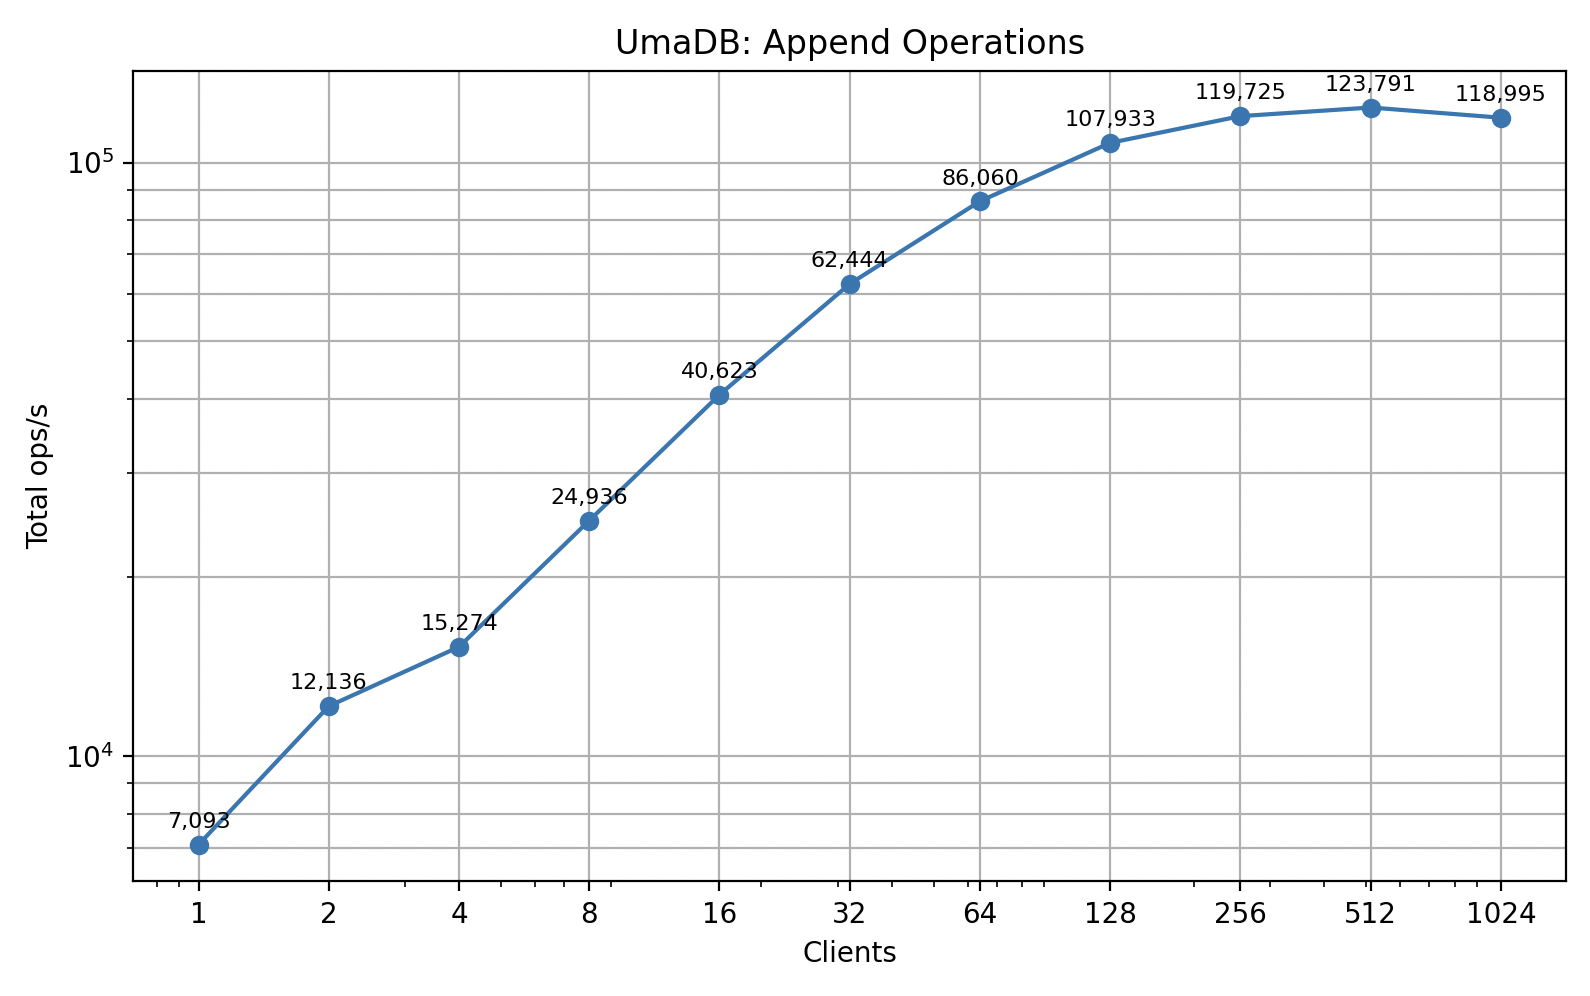
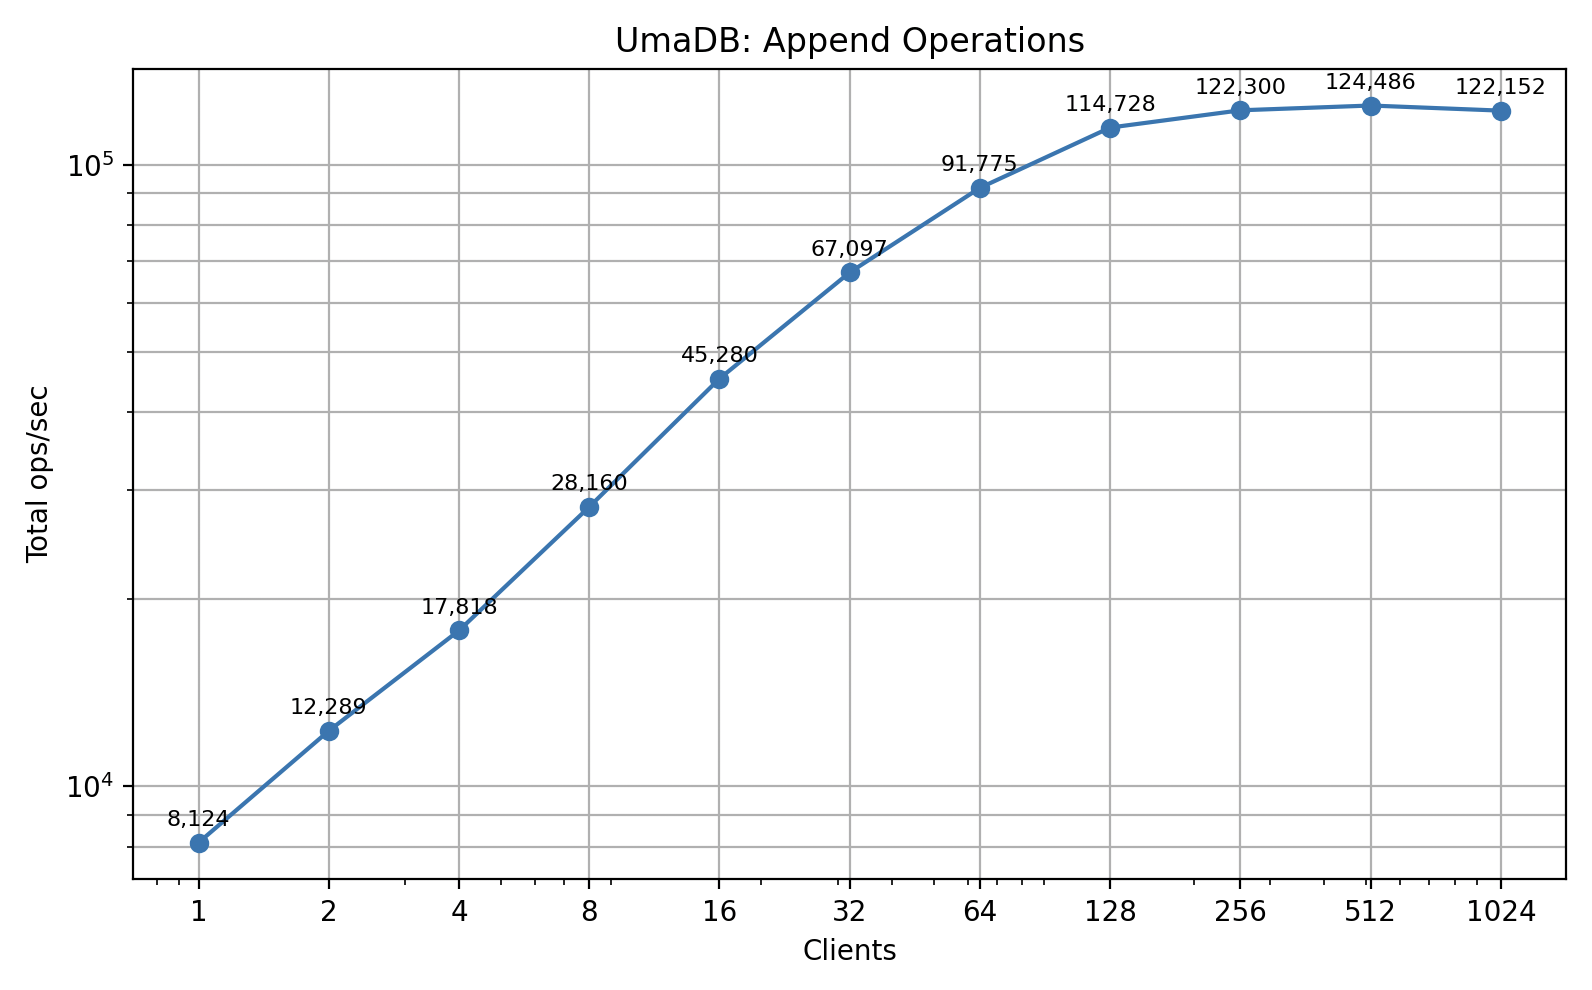
Introduce no-allocation `serialize_into` for node types, refactor related methods for clarity, reduce buffer allocations, adjust benchmarks for consistency, and increase `MAX_BATCH_EVENTS` limit.

diff --git a/src/tags_tree_nodes.rs b/src/tags_tree_nodes.rs
@@ -62,6 +62,45 @@ impl TagsLeafNode {
         Ok(out)
     }
 
+    /// No-allocation serialization into the provided buffer. Returns bytes written.
+    pub fn serialize_into(&self, dst: &mut [u8]) -> DCBResult<usize> {
+        let need = self.calc_serialized_size();
+        if dst.len() < need {
+            return Err(DCBError::SerializationError(format!(
+                "TagsLeafNode::serialize_into needs at least {} bytes, got {}",
+                need,
+                dst.len()
+            )));
+        }
+        let mut i = 0usize;
+        // keys_len
+        let klen = self.keys.len() as u16;
+        dst[i..i + 2].copy_from_slice(&klen.to_le_bytes());
+        i += 2;
+        // keys
+        for key in &self.keys {
+            dst[i..i + TAG_HASH_LEN].copy_from_slice(key);
+            i += TAG_HASH_LEN;
+        }
+        // values
+        for v in &self.values {
+            // root_id
+            dst[i..i + 8].copy_from_slice(&v.root_id.0.to_le_bytes());
+            i += 8;
+            // positions length
+            let plen = v.positions.len() as u16;
+            dst[i..i + 2].copy_from_slice(&plen.to_le_bytes());
+            i += 2;
+            // positions
+            for pos in &v.positions {
+                dst[i..i + 8].copy_from_slice(&pos.0.to_le_bytes());
+                i += 8;
+            }
+        }
+        debug_assert_eq!(i, need);
+        Ok(i)
+    }
+
     pub fn from_slice(slice: &[u8]) -> DCBResult<Self> {
         if slice.len() < 2 {
             return Err(DCBError::DeserializationError(format!(
@@ -187,6 +226,35 @@ impl TagsInternalNode {
         Ok(out)
     }
 
+    /// No-allocation serialization into the provided buffer. Returns bytes written.
+    pub fn serialize_into(&self, dst: &mut [u8]) -> DCBResult<usize> {
+        let need = self.calc_serialized_size();
+        if dst.len() < need {
+            return Err(DCBError::SerializationError(format!(
+                "TagsInternalNode::serialize_into needs at least {} bytes, got {}",
+                need,
+                dst.len()
+            )));
+        }
+        let mut i = 0usize;
+        // keys_len
+        let klen = self.keys.len() as u16;
+        dst[i..i + 2].copy_from_slice(&klen.to_le_bytes());
+        i += 2;
+        // keys
+        for key in &self.keys {
+            dst[i..i + TAG_HASH_LEN].copy_from_slice(key);
+            i += TAG_HASH_LEN;
+        }
+        // child ids (len implied as keys_len + 1)
+        for id in &self.child_ids {
+            dst[i..i + 8].copy_from_slice(&id.0.to_le_bytes());
+            i += 8;
+        }
+        debug_assert_eq!(i, need);
+        Ok(i)
+    }
+
     pub fn from_slice(slice: &[u8]) -> DCBResult<Self> {
         if slice.len() < 2 {
             return Err(DCBError::DeserializationError(format!(
@@ -305,6 +373,28 @@ impl TagLeafNode {
         Ok(out)
     }
 
+    /// No-allocation serialization into the provided buffer. Returns bytes written.
+    pub fn serialize_into(&self, dst: &mut [u8]) -> DCBResult<usize> {
+        let need = self.calc_serialized_size();
+        if dst.len() < need {
+            return Err(DCBError::SerializationError(format!(
+                "TagLeafNode::serialize_into needs at least {} bytes, got {}",
+                need,
+                dst.len()
+            )));
+        }
+        let mut i = 0usize;
+        let plen = self.positions.len() as u16;
+        dst[i..i + 2].copy_from_slice(&plen.to_le_bytes());
+        i += 2;
+        for pos in &self.positions {
+            dst[i..i + 8].copy_from_slice(&pos.0.to_le_bytes());
+            i += 8;
+        }
+        debug_assert_eq!(i, need);
+        Ok(i)
+    }
+
     pub fn from_slice(slice: &[u8]) -> DCBResult<Self> {
         if slice.len() < 2 {
             return Err(DCBError::DeserializationError(format!(
@@ -372,6 +462,32 @@ impl TagInternalNode {
             out.extend_from_slice(&id.0.to_le_bytes());
         }
         Ok(out)
+    }
+
+    /// No-allocation serialization into the provided buffer. Returns bytes written.
+    pub fn serialize_into(&self, dst: &mut [u8]) -> DCBResult<usize> {
+        let need = self.calc_serialized_size();
+        if dst.len() < need {
+            return Err(DCBError::SerializationError(format!(
+                "TagInternalNode::serialize_into needs at least {} bytes, got {}",
+                need,
+                dst.len()
+            )));
+        }
+        let mut i = 0usize;
+        let klen = self.keys.len() as u16;
+        dst[i..i + 2].copy_from_slice(&klen.to_le_bytes());
+        i += 2;
+        for k in &self.keys {
+            dst[i..i + 8].copy_from_slice(&k.0.to_le_bytes());
+            i += 8;
+        }
+        for id in &self.child_ids {
+            dst[i..i + 8].copy_from_slice(&id.0.to_le_bytes());
+            i += 8;
+        }
+        debug_assert_eq!(i, need);
+        Ok(i)
     }
 
     pub fn from_slice(slice: &[u8]) -> DCBResult<Self> {

diff --git a/src/node.rs b/src/node.rs
@@ -103,19 +103,10 @@ impl Node {
             Node::EventLeaf(node) => { let n = node.serialize_into(dst)?; Ok(n) }
             Node::EventInternal(node) => { let n = node.serialize_into(dst)?; Ok(n) }
             Node::EventOverflow(node) => { let n = node.serialize_into(dst)?; Ok(n) }
-            Node::TagsLeaf(node) => {
-                // Fallback: allocate then copy (can be optimized later)
-                let tmp = node.serialize()?; if tmp.len()>dst.len(){ return Err(DCBError::SerializationError("serialize_into(dst) buffer too small".into())); } dst[..tmp.len()].copy_from_slice(&tmp); Ok(tmp.len())
-            }
-            Node::TagsInternal(node) => {
-                let tmp = node.serialize()?; if tmp.len()>dst.len(){ return Err(DCBError::SerializationError("serialize_into(dst) buffer too small".into())); } dst[..tmp.len()].copy_from_slice(&tmp); Ok(tmp.len())
-            }
-            Node::TagLeaf(node) => {
-                let tmp = node.serialize()?; if tmp.len()>dst.len(){ return Err(DCBError::SerializationError("serialize_into(dst) buffer too small".into())); } dst[..tmp.len()].copy_from_slice(&tmp); Ok(tmp.len())
-            }
-            Node::TagInternal(node) => {
-                let tmp = node.serialize()?; if tmp.len()>dst.len(){ return Err(DCBError::SerializationError("serialize_into(dst) buffer too small".into())); } dst[..tmp.len()].copy_from_slice(&tmp); Ok(tmp.len())
-            }
+            Node::TagsLeaf(node) => { let n = node.serialize_into(dst)?; Ok(n) }
+            Node::TagsInternal(node) => { let n = node.serialize_into(dst)?; Ok(n) }
+            Node::TagLeaf(node) => { let n = node.serialize_into(dst)?; Ok(n) }
+            Node::TagInternal(node) => { let n = node.serialize_into(dst)?; Ok(n) }
         }
     }
 

diff --git a/src/grpc.rs b/src/grpc.rs
@@ -170,7 +170,7 @@ impl EventStoreHandle {
                             // Drain the channel for more pending append requests without awaiting.
                             // Important: do not drop a popped request when hitting the batch limit.
                             // We stop draining BEFORE attempting to recv if we've reached the limit.
-                            const MAX_BATCH_EVENTS: usize = 100;
+                            const MAX_BATCH_EVENTS: usize = 300;
                             loop {
                                 if total_events >= MAX_BATCH_EVENTS {
                                     break;

diff --git a/benches/grpc_append_bench.rs b/benches/grpc_append_bench.rs
@@ -46,7 +46,7 @@ pub fn grpc_append_benchmark(c: &mut Criterion) {
 
     for &threads in &[1usize, 2, 4, 8, 16, 32, 64, 128, 256, 512, 1024] {
         // Initialize DB and server with 10_000 events (as requested)
-        let initial_events = 100_000usize;
+        let initial_events = 1_000usize;
         let (_tmp_dir, db_path) = init_db_with_events(initial_events);
 
         // Find a free localhost port
